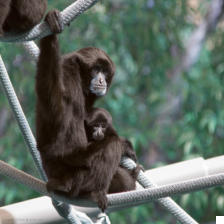
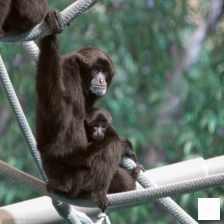
go

Changed region(s): [[0.875, 0.875, 1.0, 1.0]]

diff --git a/codes/look_poisoned_img.py b/codes/look_poisoned_img.py
@@ -298,9 +298,9 @@ def look_ImageNet():
     from codes.poisoned_dataset.imagenet_sub.BadNets.generator import PoisonedDatasetFolder as BadNetsDataset
     # backdoor pattern
     pattern = torch.zeros((224, 224), dtype=torch.uint8)
-    pattern[-8:, -8:] = 255 # 用于归一化前
+    pattern[-26:-4, -26:-4] = 255 # 用于归一化前
     weight = torch.zeros((224, 224), dtype=torch.float32)
-    weight[-8:, -8:] = 1.0
+    weight[-26:-4, -26:-4] = 1.0
     badnets_dataset = BadNetsDataset(dataset,attack_class,poisoned_ids,pattern,weight,-1,0) # ToTenser前
 
 
